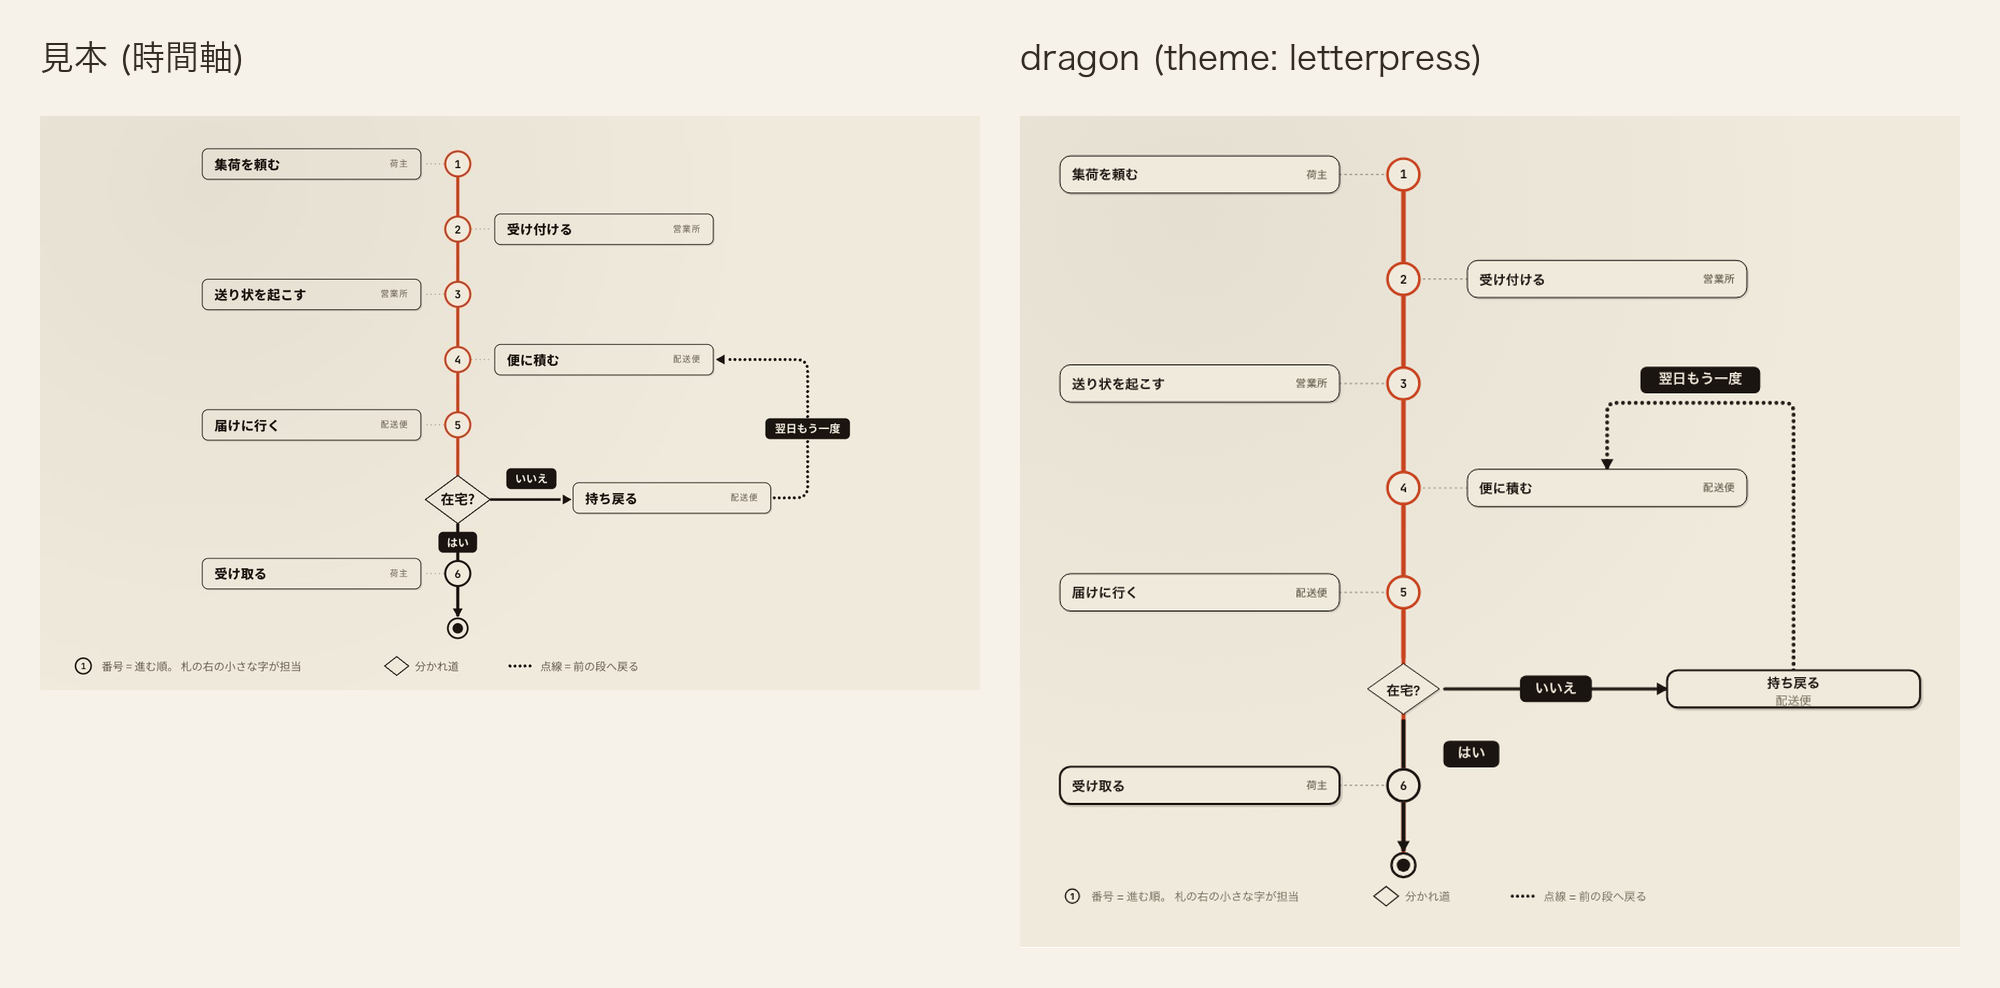
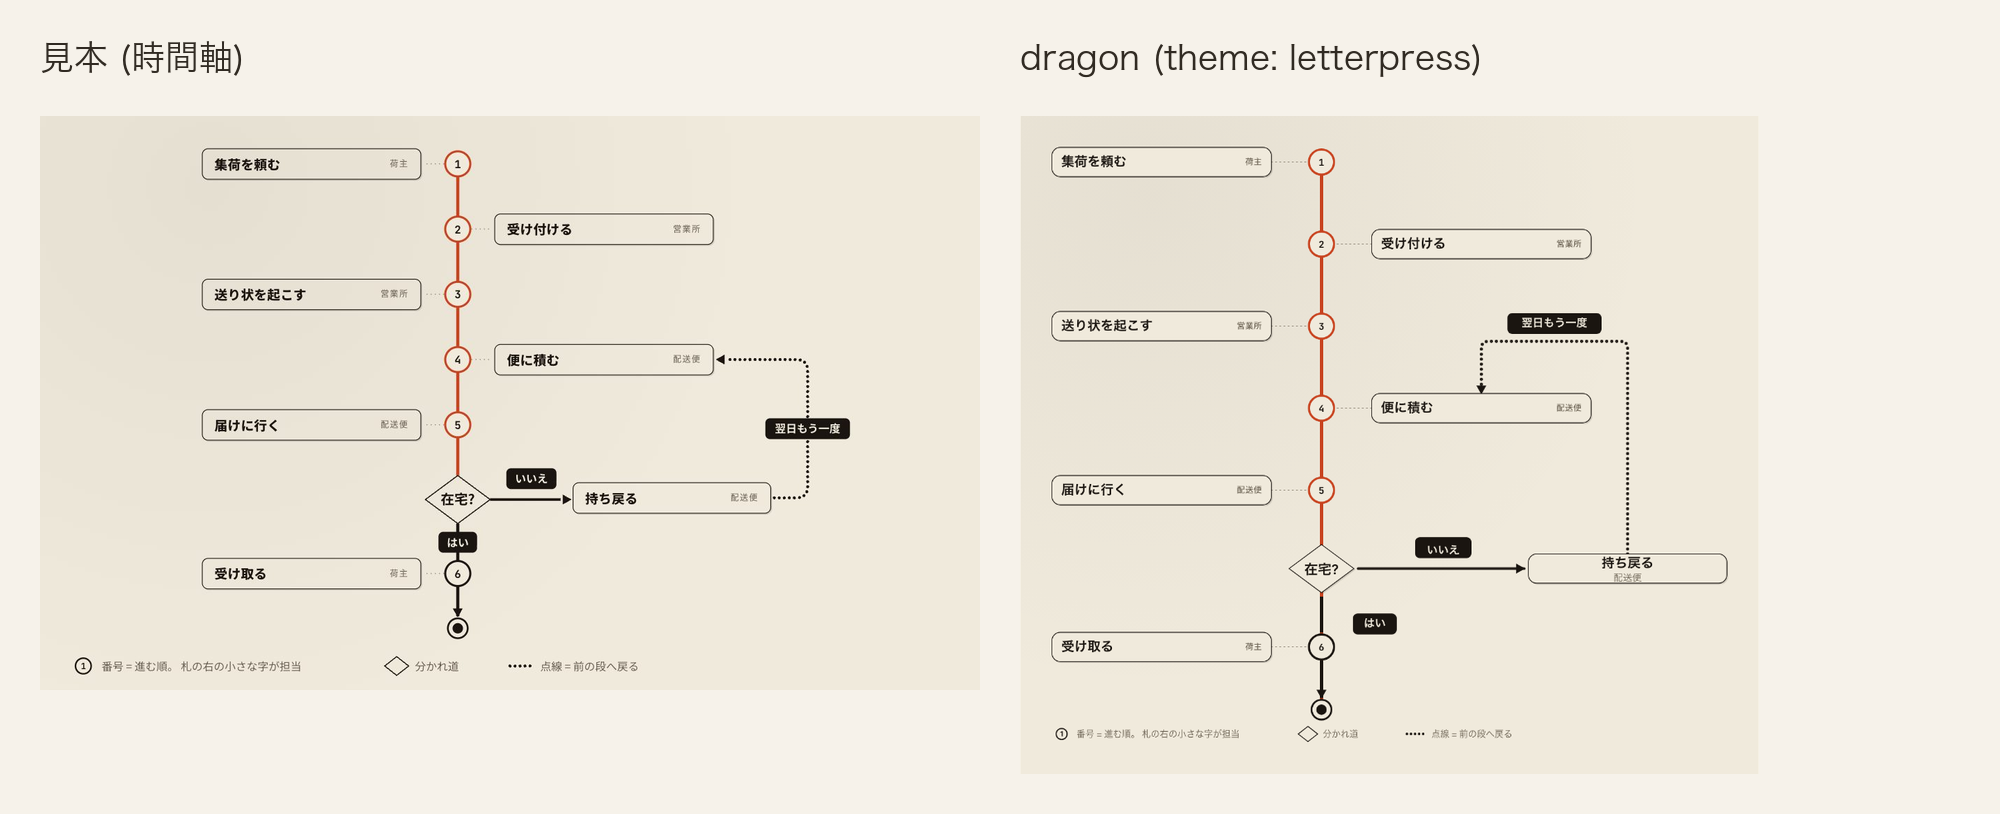
🐛 fix(timeline): 採点で見つかった見本との差を揃える (#2832)
## 背景

独立採点で残った札、分かれ道、線、比較縮尺の差を、7意匠の静止画と画面実測に合わせる。

## 変更 file

- packages/dragon/src/compile = 菱形の実描画寸法と横分岐の札配置を修正
- apps/playground-spa = 時間軸専用の文字寸法、札間隔、手描き軸と画面検査を追加
- docs/design = 7意匠の比較画像と残差説明を更新

Constraint: 比較画像は animation を外し、1800 幅の見本と同じ 940 / 1800 倍で撮影
Directive: cdl の近接下限に由来する 2 件は残差として記録
Confidence: high
Scope-risk: moderate
Not-tested: pnpm test:screens は呼出側が実行するため未実施

diff --git a/apps/playground-spa/src/styles/cdl-theme.css b/apps/playground-spa/src/styles/cdl-theme.css
@@ -1588,7 +1588,27 @@ svg[data-cdl-stage][data-cdl-palette]:has([data-cdl-role="timeline-axis"])
   font-weight: 500 !important;
 }
 
+/* 時間軸の札は、描く側が 20px で測った幅を保ちつつ見本の 25px で描く。 */
+svg[data-cdl-stage][data-cdl-palette]:has([data-cdl-role="timeline-axis"])
+  [data-cdl-lane="timeline-steps"][data-cdl-kind="card"]
+  [data-cdl-role="node-label"] {
+  font-size: 25px !important;
+  font-weight: 700 !important;
+}
+
+svg[data-cdl-stage]:is([data-cdl-palette="letterpress"], [data-cdl-palette="sketch"], [data-cdl-palette="neon"]):has([data-cdl-role="timeline-axis"])
+  [data-cdl-lane="timeline-steps"][data-cdl-kind="card"]
+  [data-cdl-role="node-label"] {
+  font-weight: 800 !important;
+}
+
 /* 見本の菱形は種類の絵を持たず、題だけで分かれ道を表す。 */
+svg[data-cdl-stage][data-cdl-palette]:has([data-cdl-role="timeline-axis"])
+  [data-cdl-lane="timeline-axis"][data-cdl-kind="decision"]
+  [data-cdl-role="node-label"] {
+  font-size: 26px !important;
+}
+
 svg[data-cdl-stage][data-cdl-palette]
   [data-cdl-lane="timeline-axis"][data-cdl-kind="decision"]
   [data-cdl-role="node-kind-icon"] {
@@ -2459,7 +2479,7 @@ svg[data-cdl-stage][data-cdl-palette="sketch"] [data-cdl-active="true"] g[data-c
   filter: url(#dragon-sketch-wobble) drop-shadow(4px 5px 0 color-mix(in srgb, var(--er-ink) 20%, transparent));
 }
 
-svg[data-cdl-stage][data-cdl-palette="sketch"] [data-cdl-role="edge-line"],
+svg[data-cdl-stage][data-cdl-palette="sketch"] [data-cdl-edge]:not([data-cdl-from^="timeline-number-"]) [data-cdl-role="edge-line"],
 svg[data-cdl-stage][data-cdl-palette="sketch"] [data-cdl-role="sequence-line"],
 svg[data-cdl-stage][data-cdl-palette="sketch"] [data-cdl-role="tree-edge"],
 svg[data-cdl-stage][data-cdl-palette="sketch"] [data-cdl-role="mind-edge"] {
@@ -3697,6 +3717,18 @@ svg[data-cdl-stage]:is([data-cdl-palette="blueprint"], [data-cdl-palette="letter
   font-size: var(--theme-timeline-label-font-size) !important;
   font-weight: var(--theme-timeline-label-font-weight) !important;
   y: 8px !important;
+}
+
+/* 描く側は 36px 高の札で線から 16px 離す。見本の 40px 高に変えた分を含め、
+   水平な「いいえ」だけ上へ 6px 移して、札の下端と線の間を 20px にする。 */
+svg[data-cdl-stage]:is([data-cdl-palette="blueprint"], [data-cdl-palette="letterpress"], [data-cdl-palette="catalog"], [data-cdl-palette="terminal"], [data-cdl-palette="sketch"], [data-cdl-palette="neon"], [data-cdl-palette="relief"]):has([data-cdl-role="timeline-axis"])
+  [data-cdl-edge-label-for][data-cdl-edge-label-text="いいえ"] > [data-cdl-role="edge-label-bg"] {
+  y: -26px !important;
+}
+
+svg[data-cdl-stage]:is([data-cdl-palette="blueprint"], [data-cdl-palette="letterpress"], [data-cdl-palette="catalog"], [data-cdl-palette="terminal"], [data-cdl-palette="sketch"], [data-cdl-palette="neon"], [data-cdl-palette="relief"]):has([data-cdl-role="timeline-axis"])
+  [data-cdl-edge-label-for][data-cdl-edge-label-text="いいえ"] > [data-cdl-role="edge-label"] {
+  y: 2px !important;
 }
 
 /* 動き中も見本の構造上の太さを保つ。活動状態は既存の色・出現・外光で伝わるため、

diff --git a/packages/dragon/src/compile/timeline.ts b/packages/dragon/src/compile/timeline.ts
@@ -11,9 +11,9 @@ export const TIMELINE_SIDE_CARD_WIDTH = 380;
 /** 描く側の `timeline-number` が半径 24・縁 4 の丸を描く大きさ。 */
 export const TIMELINE_NUMBER_SIZE = 52;
 
-/** 題を読める範囲で見本の 124 x 92 の菱形へ揃える。 */
-export const TIMELINE_DECISION_WIDTH = 124;
-export const TIMELINE_DECISION_HEIGHT = 92;
+/** 描く側が四辺を 8 内側へ縮めるため、実描画を見本の 124 x 92 にする大きさ。 */
+export const TIMELINE_DECISION_WIDTH = 140;
+export const TIMELINE_DECISION_HEIGHT = 108;
 
 /** 軸の lane は、軸上で最も広い菱形をはみ出させない幅にする。 */
 export const TIMELINE_AXIS_WIDTH = TIMELINE_DECISION_WIDTH;
@@ -43,8 +43,8 @@ export const TIMELINE_AXIS_TO_SIDE_CARD = 220;
  */
 export const TIMELINE_STEP_GAP = 157;
 
-/** 菱形の半高 46 と番号の半高 26 の間に下限 70 を保つ。 */
-export const TIMELINE_DECISION_GAP = 145;
+/** 描く側へ渡す菱形の半高 54 と番号の半高 26 の間に下限 70 を保つ。 */
+export const TIMELINE_DECISION_GAP = 150;
 
 /** 見本の 105 では番号と終わりの印の間が下限 70 を割るため 120 にする。 */
 export const TIMELINE_END_GAP = 120;

diff --git a/packages/dragon/src/compile/generic.ts b/packages/dragon/src/compile/generic.ts
@@ -470,6 +470,8 @@ export function compileGenericWithAnimate(doc: DslDocument, opts: GenericOpts): 
     const timelineEdgeKind = timelineActorIndex !== undefined
       ? classifyTimelineEdge(timelineActorIndex.get(s.from)!, timelineActorIndex.get(s.to)!)
       : undefined;
+    const timelineHorizontalBranch = timelineEdgeKind === "branch"
+      && timelineActorIndex?.get(s.from) === timelineActorIndex?.get(s.to);
     const edgeFromId =
       timelineEdgeKind === "advance" ? (timelineNumberIdByCardId!.get(fromId) ?? fromId) : fromId;
     const edgeToId =
@@ -496,7 +498,9 @@ export function compileGenericWithAnimate(doc: DslDocument, opts: GenericOpts): 
       ...(関係?.tailHead ? { tailHead: 関係.tailHead } : {}),
       ...(s.sub ? { sub: s.sub } : {}),
       ...(s.side ? { side: s.side } : {}),
-      ...(timelineEdgeKind !== undefined && s.label !== "" ? { overlay: true } : {}),
+      ...(timelineEdgeKind !== undefined && !timelineHorizontalBranch && s.label !== ""
+        ? { overlay: true }
+        : {}),
       ...(timelineEdgeKind === "advance" && !timelineEnd ? { head: "none" as const } : {}),
     });
     edgeIds.push(edgeId);

diff --git a/packages/dragon/test/swimlane-timeline.test.ts b/packages/dragon/test/swimlane-timeline.test.ts
@@ -711,11 +711,11 @@ describe("時間軸を見本と同じ丸い番号と実線の軸で描く (#2832
     );
   });
 
-  it("字を持つ時間軸の線は字の中心を線の上に置く指定を渡す", () => {
+  it("横に引く分かれ道だけ札を線の上へ浮かせる", () => {
     const labeled = 宅配.diagram.edges.filter((edge) => edge.label !== "");
     expect(labeled.map((edge) => [edge.label, edge.overlay])).toEqual([
       ["はい", true],
-      ["いいえ", true],
+      ["いいえ", undefined],
       ["翌日もう一度", true],
     ]);
   });

diff --git a/docs/design/letterpress/note.md b/docs/design/letterpress/note.md
@@ -128,8 +128,8 @@ dragon は `relation: extends` の 2 本 (である) を墨の線と白抜きの
 右は、見本帳の段の箱に使った宅配の筋書きの記法から `animation:` を外して描いた静止図で、見本帳では
 段ごとの動きにより描く側が過ぎた線を淡い破線にするため、静止図の見本と並べる時は動きを外した。
 段階の列と札を紙色でそろえ、墨の枠と押し跡で列を分け、分岐札は見本と同じ墨で塗って紙色の字を抜く。
-列 3 と列 4 の間が広いこと、「翌日もう一度」が札の上辺から出ること、「いいえ」の札の下端が列の
-下端に接すること、見出しの名前の字が小さいことは描く側が決めるため、dragon では見本に揃えていない。
+比較画像は動きを外した同じ記法を使い、1800 幅の見本と dragon をともに 940 / 1800 倍で並べた。
+最後の「受け取る」と「持ち戻る」も、他の札と同じ静止した枠で撮っている。
 
 ![時間軸。左が見本、右が dragon](images/compare-timeline.png)
 
@@ -137,7 +137,9 @@ dragon は軸と番号の縁を一の `--theme-lead`、「はい」を墨の `--
 線の札は高さ 40・角 9・21 の太字とし、3 枚とも墨 `#1a1510` の面に地 `#f0eadc` の字を置く。
 戻る線は太さ 6・丸い線端・`0 9.6` の点列とし、軸と「はい」は 6、「いいえ」は 5、補助線は 2、番号の縁は 4、終わりの外輪は 3.5 で描く。
 図の下には、番号・分かれ道・戻る点線を説明する凡例を見本と同じ順で描く。
-「持ち戻る」が軸から 396 離れる点は `cardene777/cdl#1031`、担当の位置は `cardene777/cdl#1032`、線上の札が押し出される点は `cardene777/cdl#1039` に対応する。
+札の題は 25px・800、分かれ道は 124 × 92、「在宅?」は 26px に揃えた。「いいえ」の札の下端は横線から 20 離している。
+札と軸の間は見本の 70 に対して 96、丸 6 と終わりの印の間は見本の 105 に対して 120 のまま残る。どちらも cdl の近接の下限に由来する。
+「持ち戻る」が軸から 396 離れる点は `cardene777/cdl#1031`、担当の位置は `cardene777/cdl#1032`、残る線上の札の押し出しは `cardene777/cdl#1039` に対応する。
 
 ![図表。左が見本、右が dragon の 2 図 (棒と内訳)](images/compare-chart.png)
 
